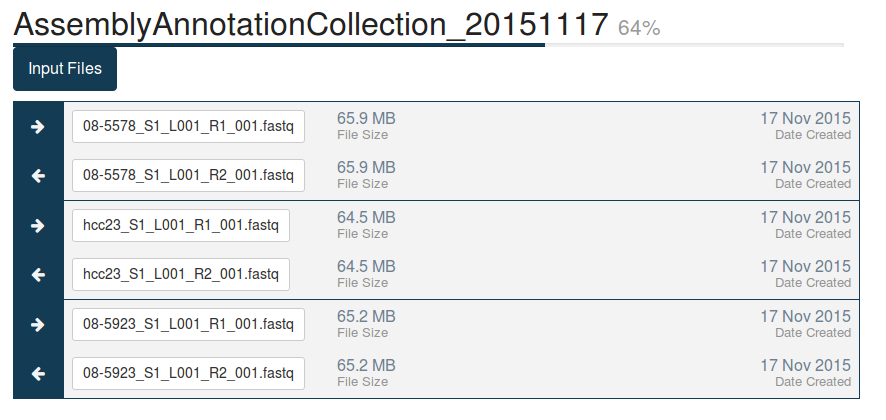
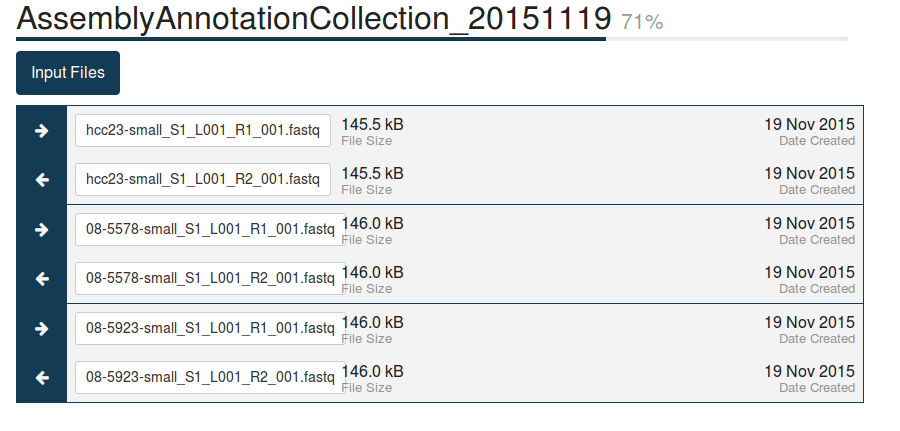
Updating assembly tutorials to use smaller dataset

Changed region(s): [[0.0, 0.0, 0.9752, 0.9595]]

diff --git a/doc/user/tutorials/assembly/index.md b/doc/user/tutorials/assembly/index.md
@@ -27,17 +27,31 @@ The assembly and annotation pipeline built into IRIDA proceeds through the follo
 Initial Data
 ============
 
-{% include tutorials/common/initial-data.md %}
+The data for this tutorial comes from <https://irida.corefacility.ca/downloads/data/irida-sample-data.zip>.  It is assumed the sequence files in `miseq-run-assembly-small/` have been uploaded into appropriate samples as described in the [Web Upload Tutorial][].  Before starting this tutorial you should have a project with samples that appear as:
+
+![assembly-tutorial-samples.png][]
 
 Adding Samples to the Cart
 ==========================
 
-{% include tutorials/common/adding-samples.md %}
+Before a pipeline can be run a set of samples and sequence read data must be selected and added to the cart.  For this tutorial please select all three samples and click the **Add to Cart** button.
+
+![select-samples.png][]
+
+Once the samples have been added to the cart, the samples can be reviewed by clicking on the **Cart** button at the top.
+
+![cart-button.png][]
 
 Selecting a Pipeline
 ====================
 
-{% include tutorials/common/selecting-pipeline.md %}
+Once inside the cart, the **Select a Pipeline** button can be used to select a pipeline to run on the selected samples.
+
+![select-a-pipeline.png][]
+
+From the **Select a Pipeline** view a number of different pipelines are available.
+
+![select-a-pipeline-view.png][]
 
 There are two different types of assembly pipelines available:
 
@@ -76,14 +90,14 @@ Clicking the pipeline name **AssemblyAnnotationCollection_...** will bring you t
 
 ![assembly-pipeline-page-details.png][]
 
-This page will continue to refresh as the pipeline progresses through each stage.  It will take a while (a few hours) for the assembly and annotation pipeline to complete.
+This page will continue to refresh as the pipeline progresses through each stage.  It will take a few minutes for the assembly and annotation pipeline to complete.
 
 Viewing the Results
 ===================
 
 Once the pipeline is complete, you will be given the option to download the results of the analysis.  Please click **Download** to download these results now.
 
-![assembly-download.png][]
+![assembly-pipeline-results.png][]
 
 A number of files are provided in the downloaded results.  These are described below.
 
@@ -111,11 +125,17 @@ This will display the individual steps of this pipeline and the parameters used 
 [FLASH]: http://ccb.jhu.edu/software/FLASH/
 [SPAdes]: http://bioinf.spbau.ru/spades
 [Prokka]: http://www.vicbioinformatics.com/software.prokka.shtml
+[Web Upload Tutorial]: {{ site.baseurl }}/user/tutorials/web-upload
+[assembly-tutorial-samples.png]: images/assembly-tutorial-samples.png
+[select-samples.png]: images/select-samples.png
+[cart-button.png]: {{ site.baseurl }}/images/tutorials/common/pipelines/cart-button.png
 [assembly-pipeline-page.png]: images/assembly-pipeline-page.png
 [ready-to-launch-button.png]: {{ site.baseurl }}/images/tutorials/common/pipelines/ready-to-launch-button.png
+[select-a-pipeline.png]: images/select-a-pipeline.png
+[select-a-pipeline-view.png]: {{ site.baseurl }}/images/tutorials/common/pipelines/select-a-pipeline-view.png
 [pipeline-launch.png]: {{ site.baseurl }}/images/tutorials/common/pipelines/pipeline-launch.png
 [your-analyses-menu.png]: {{ site.baseurl }}/images/tutorials/common/pipelines/your-analyses-menu.png
 [your-analyses-page.png]: {{ site.baseurl }}/images/tutorials/common/pipelines/your-analyses-page.png
 [assembly-pipeline-page-details.png]: images/assembly-pipeline-page-details.png
-[assembly-download.png]: images/assembly-download.png
+[assembly-pipeline-results.png]: images/assembly-pipeline-results.png
 [assembly-provenance.png]: images/assembly-provenance.png
